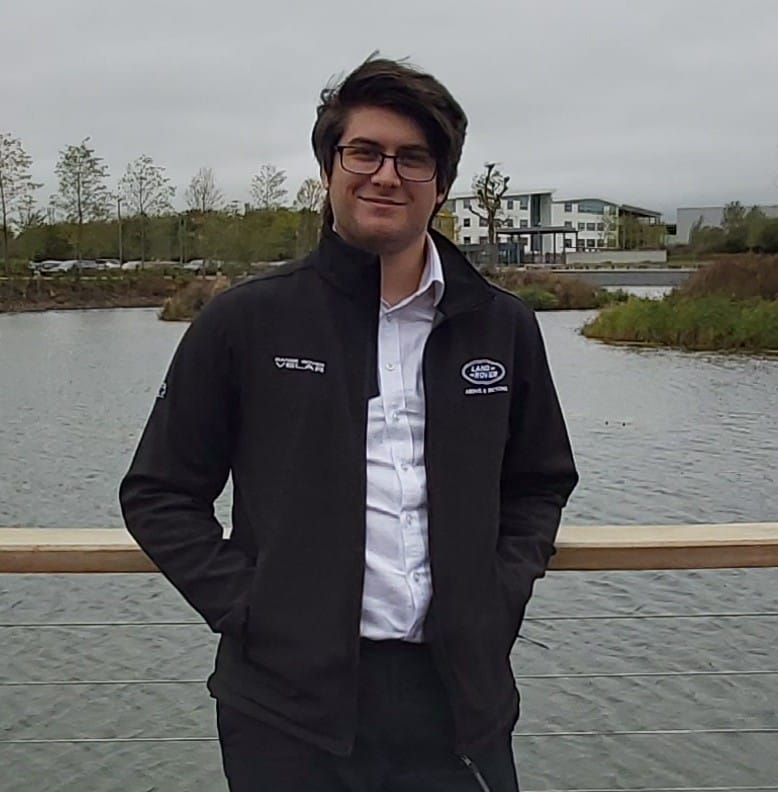
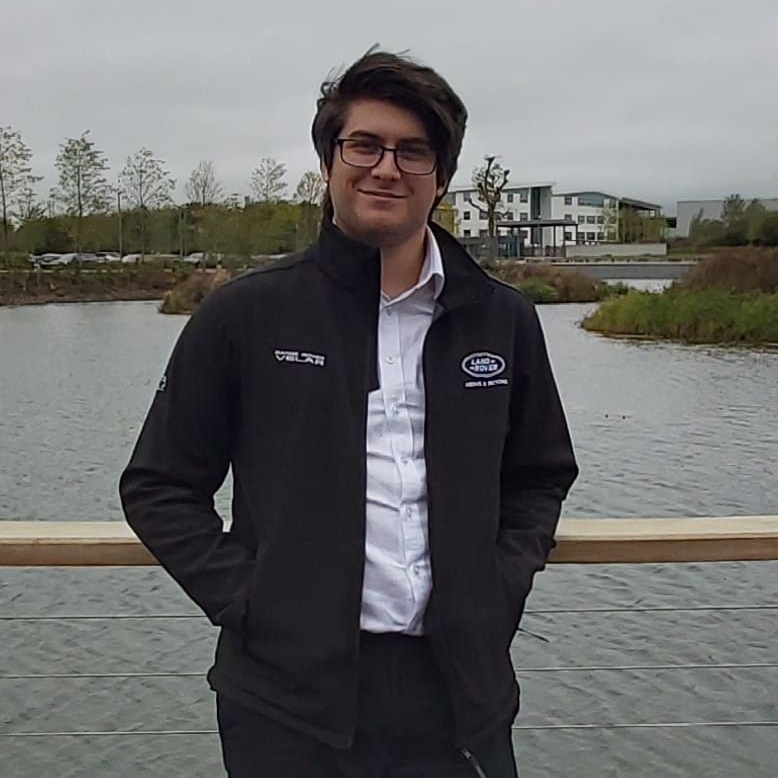
Make Lighthouse changes for all round 99+ scores

diff --git a/components/Project.tsx b/components/Project.tsx
@@ -17,7 +17,7 @@ const Project: FunctionComponent<PropTypes> = ({ project }) => {
   return (
     <div className='bg-white shadow-lg rounded-lg flex flex-col px-8 py-8 sm:px-16 sm:py-12 gap-4 max-w-xl relative'>
       <span className='hidden sm:absolute sm:flex top-4 right-4 text-black-90 hover:text-secondary transition-all duration-200 hover:cursor-pointer text-h5'><a target='_blank' rel="noreferrer" title='Open in New Tab' href={link}><MdOpenInNew /></a></span>
-      <h3 className='md:text-h3 text-h3-mobile text-black-90'>{title}</h3>
+      <h4 className='md:text-h3 text-h3-mobile text-black-90'>{title}</h4>
       <div className='flex flex-row w-full h-full justify-center'>
         <Image src={collage.default.src} width={256} height={256} alt="Project Image 1"/>
       </div>

diff --git a/components/Hero.tsx b/components/Hero.tsx
@@ -13,7 +13,7 @@ const Hero: FunctionComponent = () => {
         <p className='md:text-p text-p-mobile text-black-90 sm:w-3/5 w-full'>
           I&#39;m passionate about bringing safety to systems through <strong>cutting-edge technology</strong> with reliability built-in. All the while bringing your <strong>dreams to life</strong> through beautiful interfaces with <strong>user-experience</strong> at the forefront.
         </p>
-        <Image className='rounded-full shadow-lg m-4' src={portrait.src} alt='Samuel Preston' width={384} height={384} />
+        <Image className='rounded-full shadow-lg m-4' src={portrait.src} alt='Samuel Preston' width={384} height={384} quality={100}/>
       </div>
     </div>
   )

diff --git a/components/Footer.tsx b/components/Footer.tsx
@@ -5,7 +5,7 @@ import Info from './Info'
 
 const Footer: FunctionComponent = () => {
   return (
-    <div className='xl:w-5/6 w-full 2xl:px-64 xl:px-64 lg:px-32 md:px-16 px-8 min-w-full transition-all ease-linear duration-300'>
+    <div className='xl:w-5/6 w-full 2xl:px-64 xl:px-64 lg:px-32 md:px-16 px-8 pt-12 min-w-full transition-all ease-linear duration-300'>
       <h1 id="contact" className='md:text-h1 text-h1-mobile text-black-90'>Contact</h1>
       <div className="flex md:flex-row flex-col divide-black-90 gap-8 md:divide-x-2 divide-y-2 md:divide-y-0 w-full">
         <ContactForm />
